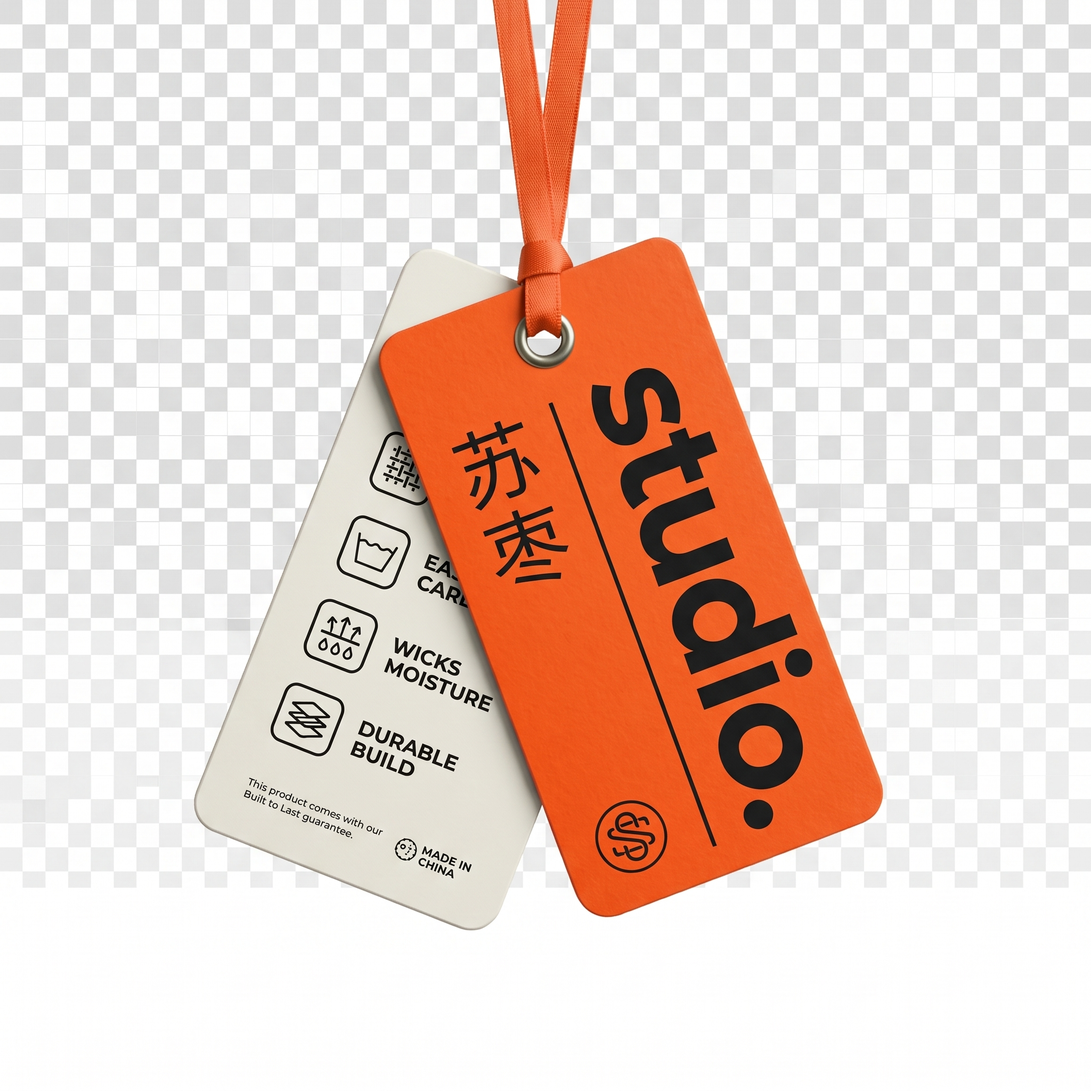
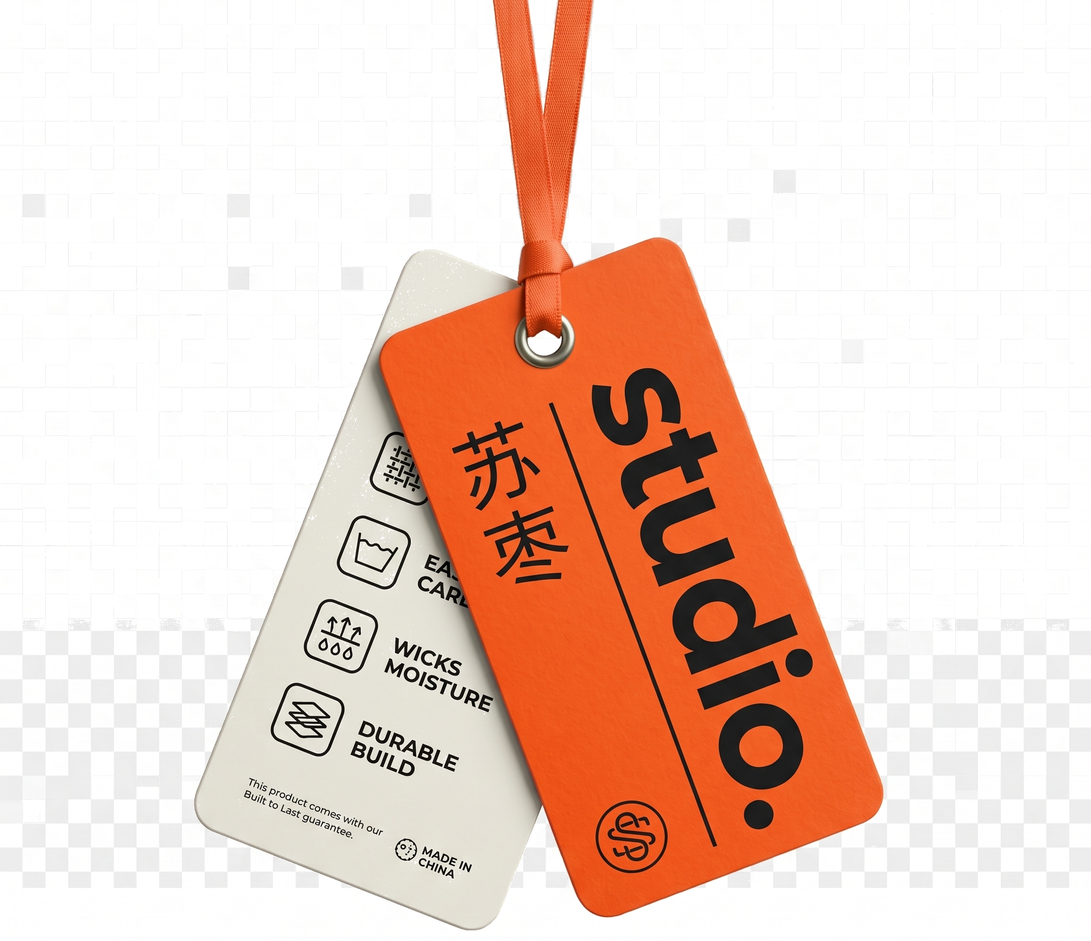
Wire real IN LOOK and R. photography into the work page, fix repeats
- Organize newly uploaded images into images/projects/inlook/ and
  images/projects/r/, and clean the ones that had a transparency-
  preview checkerboard baked into their pixels (screenshotted rather
  than exported) by detecting and flattening the checker tiles back
  to a plain background, then cropping tight to the product.
- IN LOOK and R. hero panel buttons now point at real photos instead
  of the color+label fallback swatch.
- Zone 2 gallery array rebuilt with all 12 distinct product images
  across all four brands so nothing repeats.

Claude-Session: https://claude.ai/code/session_01CVA7BbrvoKNaBoDBXBshz1

diff --git a/js/work-hero.js b/js/work-hero.js
@@ -90,16 +90,20 @@ document.addEventListener('DOMContentLoaded', () => {
 
 
   /* ── Zone 2: unified scroll gallery — flat list, all brands mixed,
-     no per-brand filtering. Placeholder set repeats the two real
-     head images we have until individual product photography and
-     the IN LOOK / R. images are supplied. ─────────────────────── */
+     no per-brand filtering. ─────────────────────────────────────── */
   const GALLERY_IMAGES = [
-    { src: 'images/projects/suzao/hero.png',       alt: 'Studio Suzao — full card set' },
-    { src: 'images/projects/suzao/card-front.png', alt: 'Studio Suzao — card front' },
-    { src: 'images/projects/matiere/hero.png',     alt: 'MATIÈRE — No. 07 Vétiver' },
-    { src: 'images/projects/suzao/card-back.png',  alt: 'Studio Suzao — card back' },
-    { src: 'images/projects/matiere/hero.png',     alt: 'MATIÈRE — No. 07 Vétiver' },
-    { src: 'images/projects/suzao/hero.png',       alt: 'Studio Suzao — full card set' }
+    { src: 'images/projects/suzao/hero.png',        alt: 'Studio Suzao — full card set' },
+    { src: 'images/projects/matiere/hero.png',       alt: 'MATIÈRE — No. 07 Vétiver' },
+    { src: 'images/projects/inlook/hero.png',        alt: 'IN LOOK — hang tag' },
+    { src: 'images/projects/r/wine-bag-cream.png',   alt: 'R. — wine bag, cream' },
+    { src: 'images/projects/suzao/card-front.png',   alt: 'Studio Suzao — card front' },
+    { src: 'images/projects/matiere/matiere.jpeg',   alt: 'MATIÈRE — full fragrance set' },
+    { src: 'images/projects/inlook/multi.png',       alt: 'IN LOOK — tag colorways' },
+    { src: 'images/projects/r/wine-bag-black.png',   alt: 'R. — wine bag, black' },
+    { src: 'images/projects/suzao/card-back.png',    alt: 'Studio Suzao — card back' },
+    { src: 'images/projects/suzao/tag.png',          alt: 'Studio Suzao — hang tag' },
+    { src: 'images/projects/inlook/teami.png',       alt: 'IN LOOK — Teami collection tag' },
+    { src: 'images/projects/r/lifestyle.jpeg',       alt: 'R. — bottle and bag' }
   ];
 
   const gallery = document.getElementById('workGallery');

diff --git a/work.html b/work.html
@@ -276,14 +276,6 @@
 
       <div class="work-hero__list" id="workHeroList">
 
-        <!--
-          Real product photography note: only Studio Suzao and MATIÈRE have
-          real head images right now (images/projects/suzao, /matiere).
-          IN LOOK and R. fall back to a solid-color + name placeholder
-          (see .work-hero__panel-fallback below) until real cutout PNGs
-          are supplied — do not let that placeholder silently become final.
-        -->
-
         <button class="work-hero__item" data-project="suzao" data-image="images/projects/suzao/hero.png" data-color="#F5F0E8" data-label="Studio Suzao">
           <span class="work-hero__item-num">01</span>
           <span class="work-hero__item-title">Studio Suzao</span>
@@ -294,12 +286,12 @@
           <span class="work-hero__item-title">MATIÈRE</span>
         </button>
 
-        <button class="work-hero__item" data-project="inlook" data-image="" data-color="#3B4A3E" data-label="IN LOOK">
+        <button class="work-hero__item" data-project="inlook" data-image="images/projects/inlook/hero.png" data-color="#3B4A3E" data-label="IN LOOK">
           <span class="work-hero__item-num">03</span>
           <span class="work-hero__item-title">IN LOOK</span>
         </button>
 
-        <button class="work-hero__item" data-project="r" data-image="" data-color="#EDE3D3" data-label="R.">
+        <button class="work-hero__item" data-project="r" data-image="images/projects/r/wine-bag-cream.png" data-color="#EDE3D3" data-label="R.">
           <span class="work-hero__item-num">04</span>
           <span class="work-hero__item-title">R.</span>
         </button>
